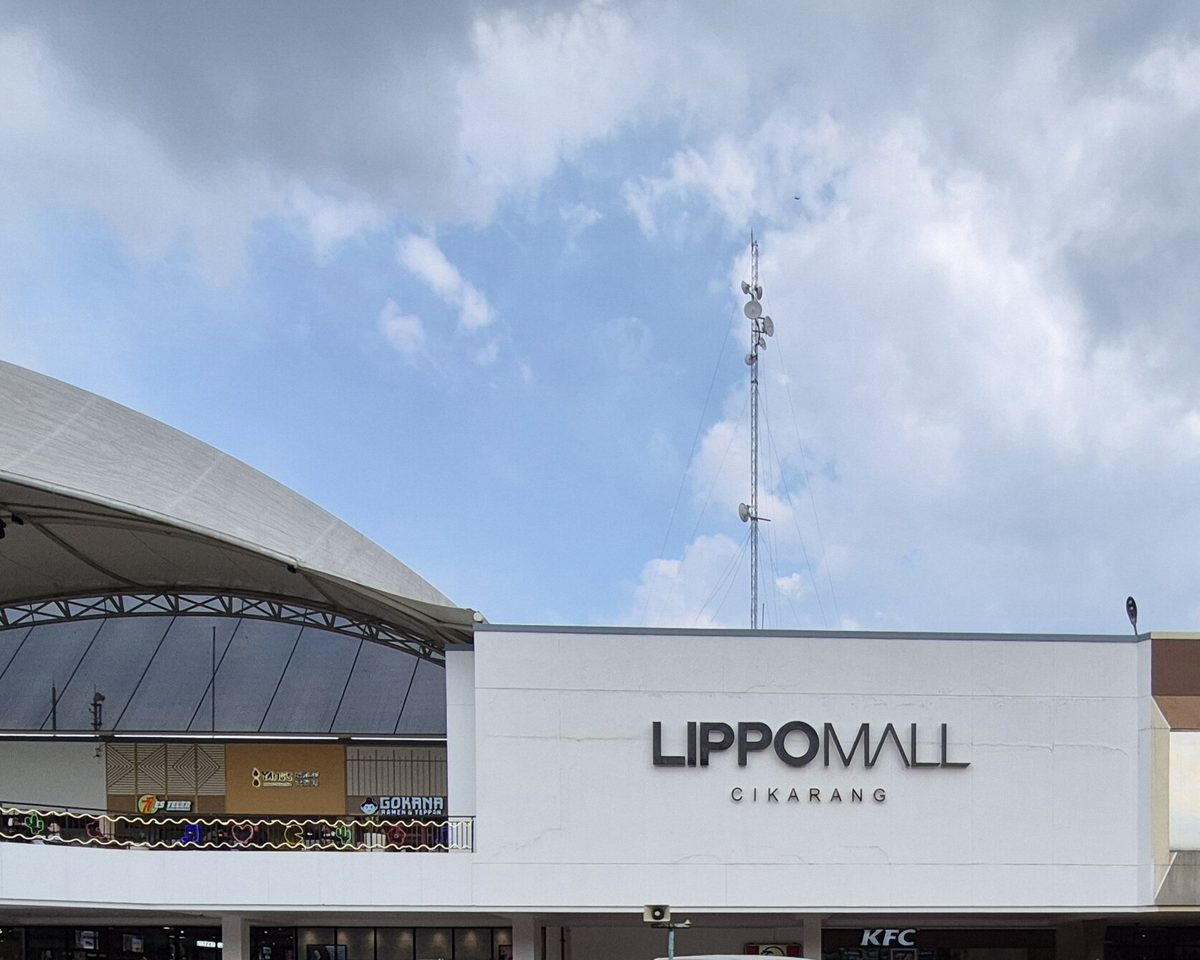
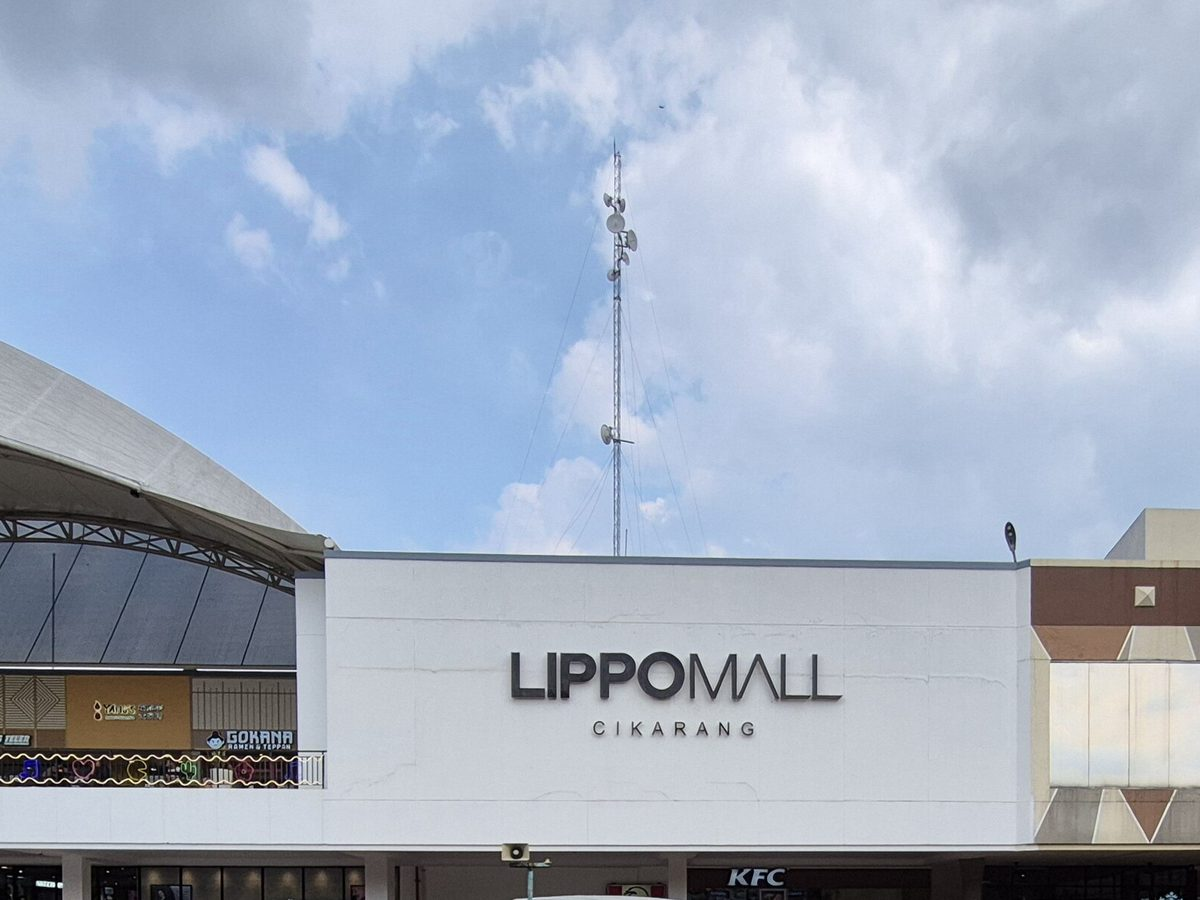
Kartu cabang: nama daerah di atas foto landmark, alamat di bawah
- Foto daerah 4:3 dipotong lebih dekat ke landmark
- Nama daerah menimpa foto, tanpa tombol "Lihat cabang"
- Alamat dengan font lebih kecil, kredit foto tidak ditampilkan di kartu

diff --git a/apps/web/src/app/page.tsx b/apps/web/src/app/page.tsx
@@ -21,7 +21,7 @@ import { Faq } from "@/components/faq";
 import { Phone, TenantScreen } from "@/components/landing/phone";
 import { Ornament } from "@/components/landing/ornament";
 import { Glow } from "@/components/landing/glow";
-import { HOUSE_CLIP, HouseBadge, HouseFrame } from "@/components/landing/house-frame";
+import { HouseBadge, HouseFrame } from "@/components/landing/house-frame";
 import { RevealObserver } from "@/components/landing/reveal-observer";
 import { getKosList, getRoomListings } from "@/lib/public-api";
 import { price, waLink } from "@/lib/format";
@@ -131,29 +131,18 @@ export default async function HomePage() {
             {/* HP: geser ke samping; md ke atas: grid */}
             <div data-reveal style={delay(100)} className={`no-scrollbar -mx-4 mt-8 flex snap-x snap-mandatory gap-4 overflow-x-auto px-4 pb-2 pt-1 md:mx-0 md:mt-10 md:grid md:grid-cols-2 md:gap-5 md:overflow-visible md:px-0 ${openKos.length === 4 ? "lg:grid-cols-4" : "lg:grid-cols-3"}`}>
               {openKos.map((k) => (
-                <Link
-                  key={k.slug}
-                  href={`/${k.slug}`}
-                  className="group flex w-[80%] shrink-0 snap-center flex-col rounded-[1.75rem] bg-night-2 p-3 ring-1 ring-white/8 transition duration-300 hover:-translate-y-1 hover:ring-lime/40 md:w-auto"
-                >
-                  <div className="relative aspect-5/4 overflow-hidden rounded-b-[1.4rem]" style={{ clipPath: HOUSE_CLIP }}>
-                    {/* Foto landmark daerah; cabang tanpa foto daerah memakai foto cover */}
+                <Link key={k.slug} href={`/${k.slug}`} className="group block w-[80%] shrink-0 snap-center md:w-auto">
+                  {/* Foto landmark daerah dengan nama daerah di atasnya; cabang tanpa foto daerah memakai foto cover */}
+                  <div className="relative aspect-4/3 overflow-hidden rounded-2xl ring-1 ring-white/8 transition group-hover:ring-lime/50">
                     <img src={k.areaImage ?? k.coverImage ?? ""} alt={k.area ?? k.city} className="size-full object-cover transition duration-500 group-hover:scale-105" />
-                    <div className="absolute inset-0 bg-linear-to-t from-night-2/80 via-transparent to-transparent" />
+                    <div className="absolute inset-0 bg-night/35 transition group-hover:bg-night/20" />
+                    <h3 className="absolute inset-0 grid place-items-center px-4 text-center text-2xl font-bold tracking-tight text-white decoration-lime decoration-2 underline-offset-8 [text-shadow:0_2px_12px_rgb(0_0_0/0.55)] group-hover:underline sm:text-[1.7rem]">
+                      {k.area ?? k.city}
+                    </h3>
                   </div>
-                  {k.areaImage && k.areaImageCredit && <p className="mt-1.5 px-2 text-[10px] leading-snug text-white/35">{k.areaImageCredit}</p>}
-                  <div className="flex flex-1 flex-col px-2 pb-1 pt-3">
-                    <h3 className="text-2xl font-bold tracking-tight">{k.area ?? k.city}</h3>
-                    <p className="mt-2 flex gap-1.5 text-sm leading-relaxed text-white/60">
-                      <MapPin className="mt-0.5 size-4 shrink-0 text-lime" /> {k.address}
-                    </p>
-                    <div className="mt-auto flex items-center justify-between gap-3 pt-5">
-                      <span className="w-full border-t border-dashed border-white/12 pt-4 text-sm font-semibold text-white/80 transition group-hover:text-lime">Lihat cabang</span>
-                      <span className="mt-4 grid size-11 shrink-0 place-items-center rounded-full bg-white/8 transition group-hover:bg-lime group-hover:text-night">
-                        <ArrowRight className="size-4 transition group-hover:translate-x-0.5" />
-                      </span>
-                    </div>
-                  </div>
+                  <p className="mt-2.5 flex gap-1.5 px-1 text-xs leading-relaxed text-white/60">
+                    <MapPin className="mt-px size-3.5 shrink-0 text-lime" /> {k.address}
+                  </p>
                 </Link>
               ))}
             </div>
